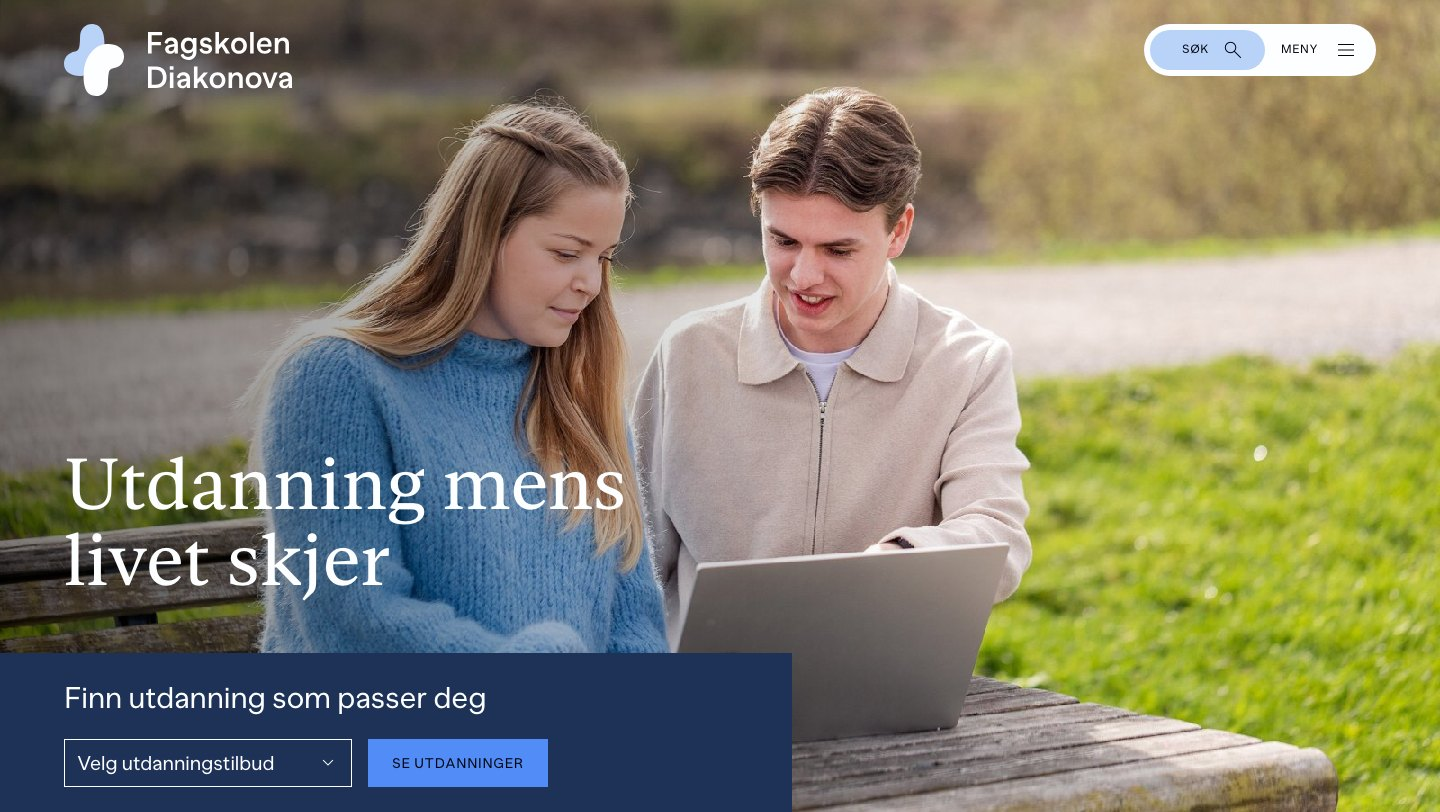
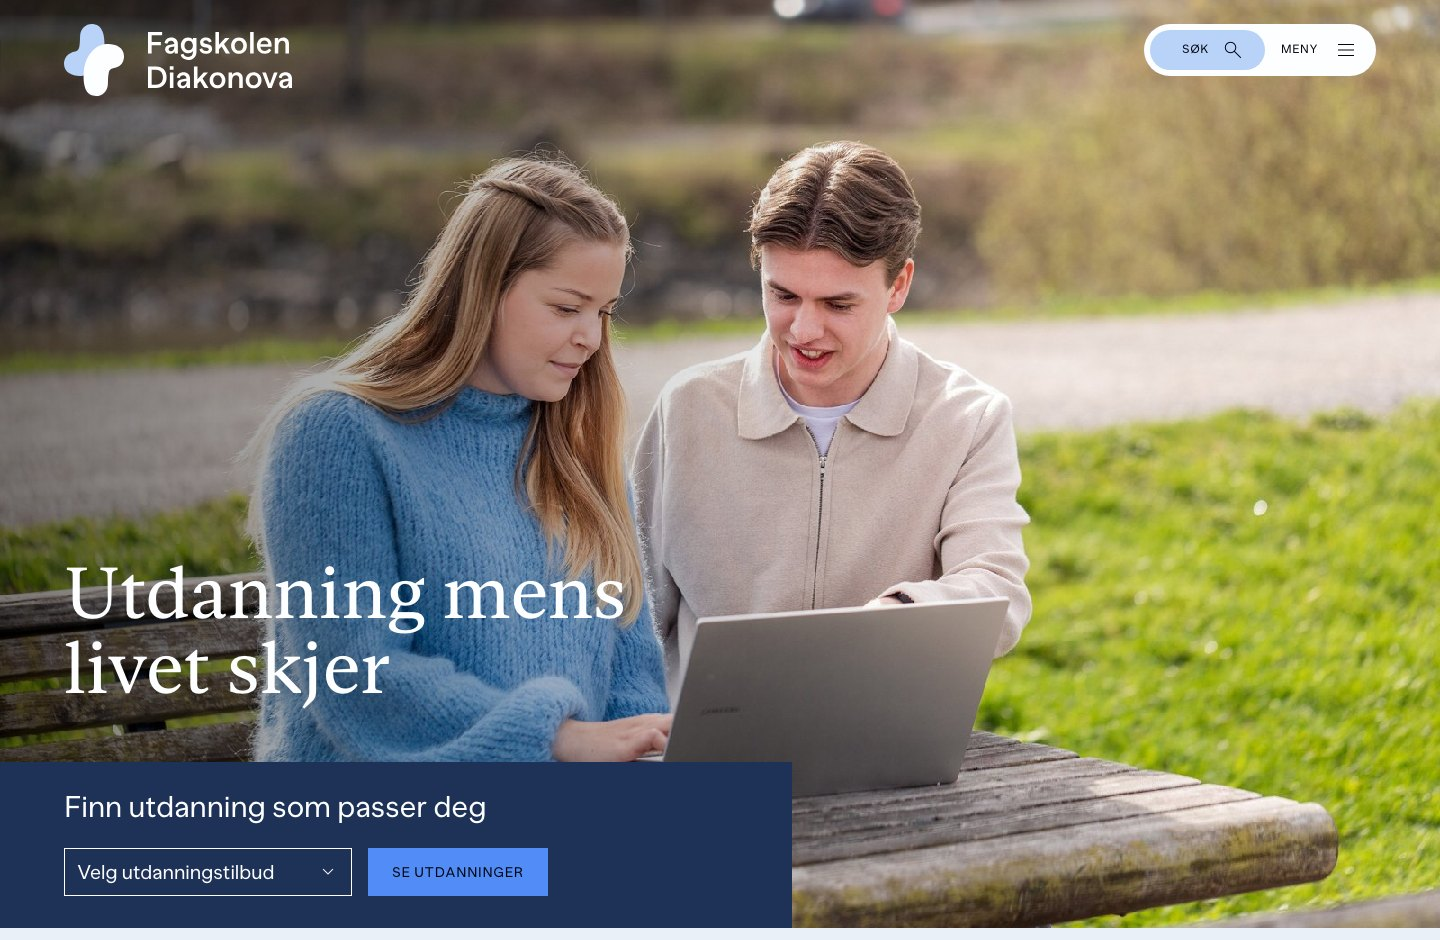
Case pages: live-site link + 'more case studies' cross-nav at page end; Fagskolen before/after natural aspect + cleaner 'after' crop

diff --git a/fagskolen.html b/fagskolen.html
@@ -49,7 +49,6 @@
       <p class="kicker" style="margin-bottom:28px">Fagskolen Diakonova · 2025 · UX designer</p>
       <h1 class="case-h1">Make it easy to find the right study</h1>
       <p class="case-summary">A UX lift for Fagskolen Diakonova, supporting a new strategy to grow the school beyond health into more fields. I set modern practices for navigation, information architecture and conversion, and gave the team a CMS they can run.</p>
-      <p style="margin:24px 0 0"><a class="pill" href="https://www.fagskolendiakonova.no/" target="_blank" rel="noopener">Visit the live site ↗</a></p>
       <div class="case-meta">
         <div>
           <p class="field-label">Role</p>
@@ -142,11 +141,11 @@
       <h2 class="case-value-h2">Before and after</h2>
       <div class="img-grid img-grid--concept">
         <div>
-          <img src="assets/fagskolen-before.jpg" alt="The old Fagskolen Diakonova front page, organised around the college with a single generic call to action" class="img h-300 pos-top">
+          <img src="assets/fagskolen-before.jpg" alt="The old Fagskolen Diakonova front page, organised around the college with a single generic call to action" class="img img--full">
           <p class="caption caption--mut">Before: the old front page. Health-led, organised around the college, with one generic call to action.</p>
         </div>
         <div>
-          <img src="assets/fagskolen-after.jpg" alt="The redesigned front page: search first, organised by field, with clear routes to interest and application" class="img h-300 pos-top">
+          <img src="assets/fagskolen-after.jpg" alt="The redesigned front page: search first, organised by field, with clear routes to interest and application" class="img img--full">
           <p class="caption caption--mut">After: search first, the full range of fields on show, and a visible path to interest and application.</p>
         </div>
       </div>
@@ -154,7 +153,14 @@
 
     <section class="case-section--footer">
       <p class="note">A team project, with brand, content and development alongside the UX. Happy to walk through the details over a coffee: <a href="mailto:anastasia.buialo@gmail.com" class="link">anastasia.buialo@gmail.com</a></p>
-      <p style="margin:28px 0 0"><a href="index.html" class="pill">← All work</a></p>
+      <p style="margin:32px 0 0"><a class="pill" href="https://www.fagskolendiakonova.no/" target="_blank" rel="noopener">Visit the live site ↗</a></p>
+      <p class="field-label" style="margin:40px 0 16px">More case studies</p>
+      <div class="contact-actions">
+        <a class="pill" href="finaut.html">FinAut →</a>
+        <a class="pill" href="coptikk.html">c)optikk →</a>
+        <a class="pill" href="otovo-solar-planner.html">Otovo Solar Planner →</a>
+        <a class="pill" href="index.html">All work</a>
+      </div>
     </section>
   </main>
 </div>
@@ -184,7 +190,6 @@
       <p class="kicker" style="margin-bottom:28px">Fagskolen Diakonova · 2025 · UX-designer</p>
       <h1 class="case-h1">Gjør det enkelt å finne riktig utdanning</h1>
       <p class="case-summary">Et UX-løft for Fagskolen Diakonova, som støtter en ny strategi om å vokse skolen utover helse til flere fagfelt. Jeg satte moderne praksiser for navigasjon, informasjonsarkitektur og konvertering, og ga teamet et CMS de selv kan drifte.</p>
-      <p style="margin:24px 0 0"><a class="pill" href="https://www.fagskolendiakonova.no/" target="_blank" rel="noopener">Se nettsiden live ↗</a></p>
       <div class="case-meta">
         <div>
           <p class="field-label">Rolle</p>
@@ -277,11 +282,11 @@
       <h2 class="case-value-h2">Før og etter</h2>
       <div class="img-grid img-grid--concept">
         <div>
-          <img src="assets/fagskolen-before.jpg" alt="Den gamle forsiden til Fagskolen Diakonova, organisert rundt skolen med én generisk oppfordring" class="img h-300 pos-top">
+          <img src="assets/fagskolen-before.jpg" alt="Den gamle forsiden til Fagskolen Diakonova, organisert rundt skolen med én generisk oppfordring" class="img img--full">
           <p class="caption caption--mut">Før: den gamle forsiden. Helsepreget, organisert rundt skolen, med én generisk oppfordring.</p>
         </div>
         <div>
-          <img src="assets/fagskolen-after.jpg" alt="Den redesignede forsiden: søk først, organisert etter fagfelt, med tydelige veier til interesse og søknad" class="img h-300 pos-top">
+          <img src="assets/fagskolen-after.jpg" alt="Den redesignede forsiden: søk først, organisert etter fagfelt, med tydelige veier til interesse og søknad" class="img img--full">
           <p class="caption caption--mut">Etter: søk først, hele fagbredden synlig, og en tydelig vei til interesse og søknad.</p>
         </div>
       </div>
@@ -289,7 +294,14 @@
 
     <section class="case-section--footer">
       <p class="note">Et teamprosjekt, med profil, innhold og utvikling ved siden av UX-en. Jeg går gjerne gjennom detaljene over en kaffe: <a href="mailto:anastasia.buialo@gmail.com" class="link">anastasia.buialo@gmail.com</a></p>
-      <p style="margin:28px 0 0"><a href="index.html" class="pill">← Alle prosjekter</a></p>
+      <p style="margin:32px 0 0"><a class="pill" href="https://www.fagskolendiakonova.no/" target="_blank" rel="noopener">Se nettsiden live ↗</a></p>
+      <p class="field-label" style="margin:40px 0 16px">Flere casestudier</p>
+      <div class="contact-actions">
+        <a class="pill" href="finaut.html">FinAut →</a>
+        <a class="pill" href="coptikk.html">c)optikk →</a>
+        <a class="pill" href="otovo-solar-planner.html">Otovo Solar Planner →</a>
+        <a class="pill" href="index.html">Alle prosjekter</a>
+      </div>
     </section>
   </main>
 </div>

diff --git a/coptikk.html b/coptikk.html
@@ -49,7 +49,6 @@
       <p class="kicker" style="margin-bottom:28px">c)optikk · 2025 · UX designer, Netlife</p>
       <h1 class="case-h1">Make specialist eye care easy to find and trust</h1>
       <p class="case-summary">A certification brand and website for c)optikk, Norway's largest association of privately owned opticians. I owned the UX, turning members' clinical expertise into a site people can search, trust and act on.</p>
-      <p style="margin:24px 0 0"><a class="pill" href="https://optikerklinikk.no/" target="_blank" rel="noopener">Visit the live site ↗</a></p>
       <div class="case-meta">
         <div>
           <p class="field-label">Role</p>
@@ -139,6 +138,7 @@
 
     <section class="case-section--footer">
       <p class="note">A team effort with Netlife's naming, brand, content and design. Happy to walk through the details over a coffee: <a href="mailto:anastasia.buialo@gmail.com" class="link">anastasia.buialo@gmail.com</a></p>
+      <p style="margin:32px 0 0"><a class="pill" href="https://optikerklinikk.no/" target="_blank" rel="noopener">Visit the live site ↗</a></p>
       <p class="field-label" style="margin:40px 0 16px">More case studies</p>
       <div class="contact-actions">
         <a class="pill" href="finaut.html">FinAut →</a>
@@ -175,7 +175,6 @@
       <p class="kicker" style="margin-bottom:28px">c)optikk · 2025 · UX-designer, Netlife</p>
       <h1 class="case-h1">Gjør spesialisert øyehelse lett å finne og stole på</h1>
       <p class="case-summary">En merkeordning og nettside for c)optikk, Norges største sammenslutning av privateide optikere. Jeg eide UX-en, og gjorde medlemmenes fagkunnskap om til en side folk kan søke i, stole på og handle ut fra.</p>
-      <p style="margin:24px 0 0"><a class="pill" href="https://optikerklinikk.no/" target="_blank" rel="noopener">Se nettsiden live ↗</a></p>
       <div class="case-meta">
         <div>
           <p class="field-label">Rolle</p>
@@ -265,6 +264,7 @@
 
     <section class="case-section--footer">
       <p class="note">Et teamarbeid med Netlifes navn, merke, innhold og design. Jeg går gjerne gjennom detaljene over en kaffe: <a href="mailto:anastasia.buialo@gmail.com" class="link">anastasia.buialo@gmail.com</a></p>
+      <p style="margin:32px 0 0"><a class="pill" href="https://optikerklinikk.no/" target="_blank" rel="noopener">Se nettsiden live ↗</a></p>
       <p class="field-label" style="margin:40px 0 16px">Flere casestudier</p>
       <div class="contact-actions">
         <a class="pill" href="finaut.html">FinAut →</a>
